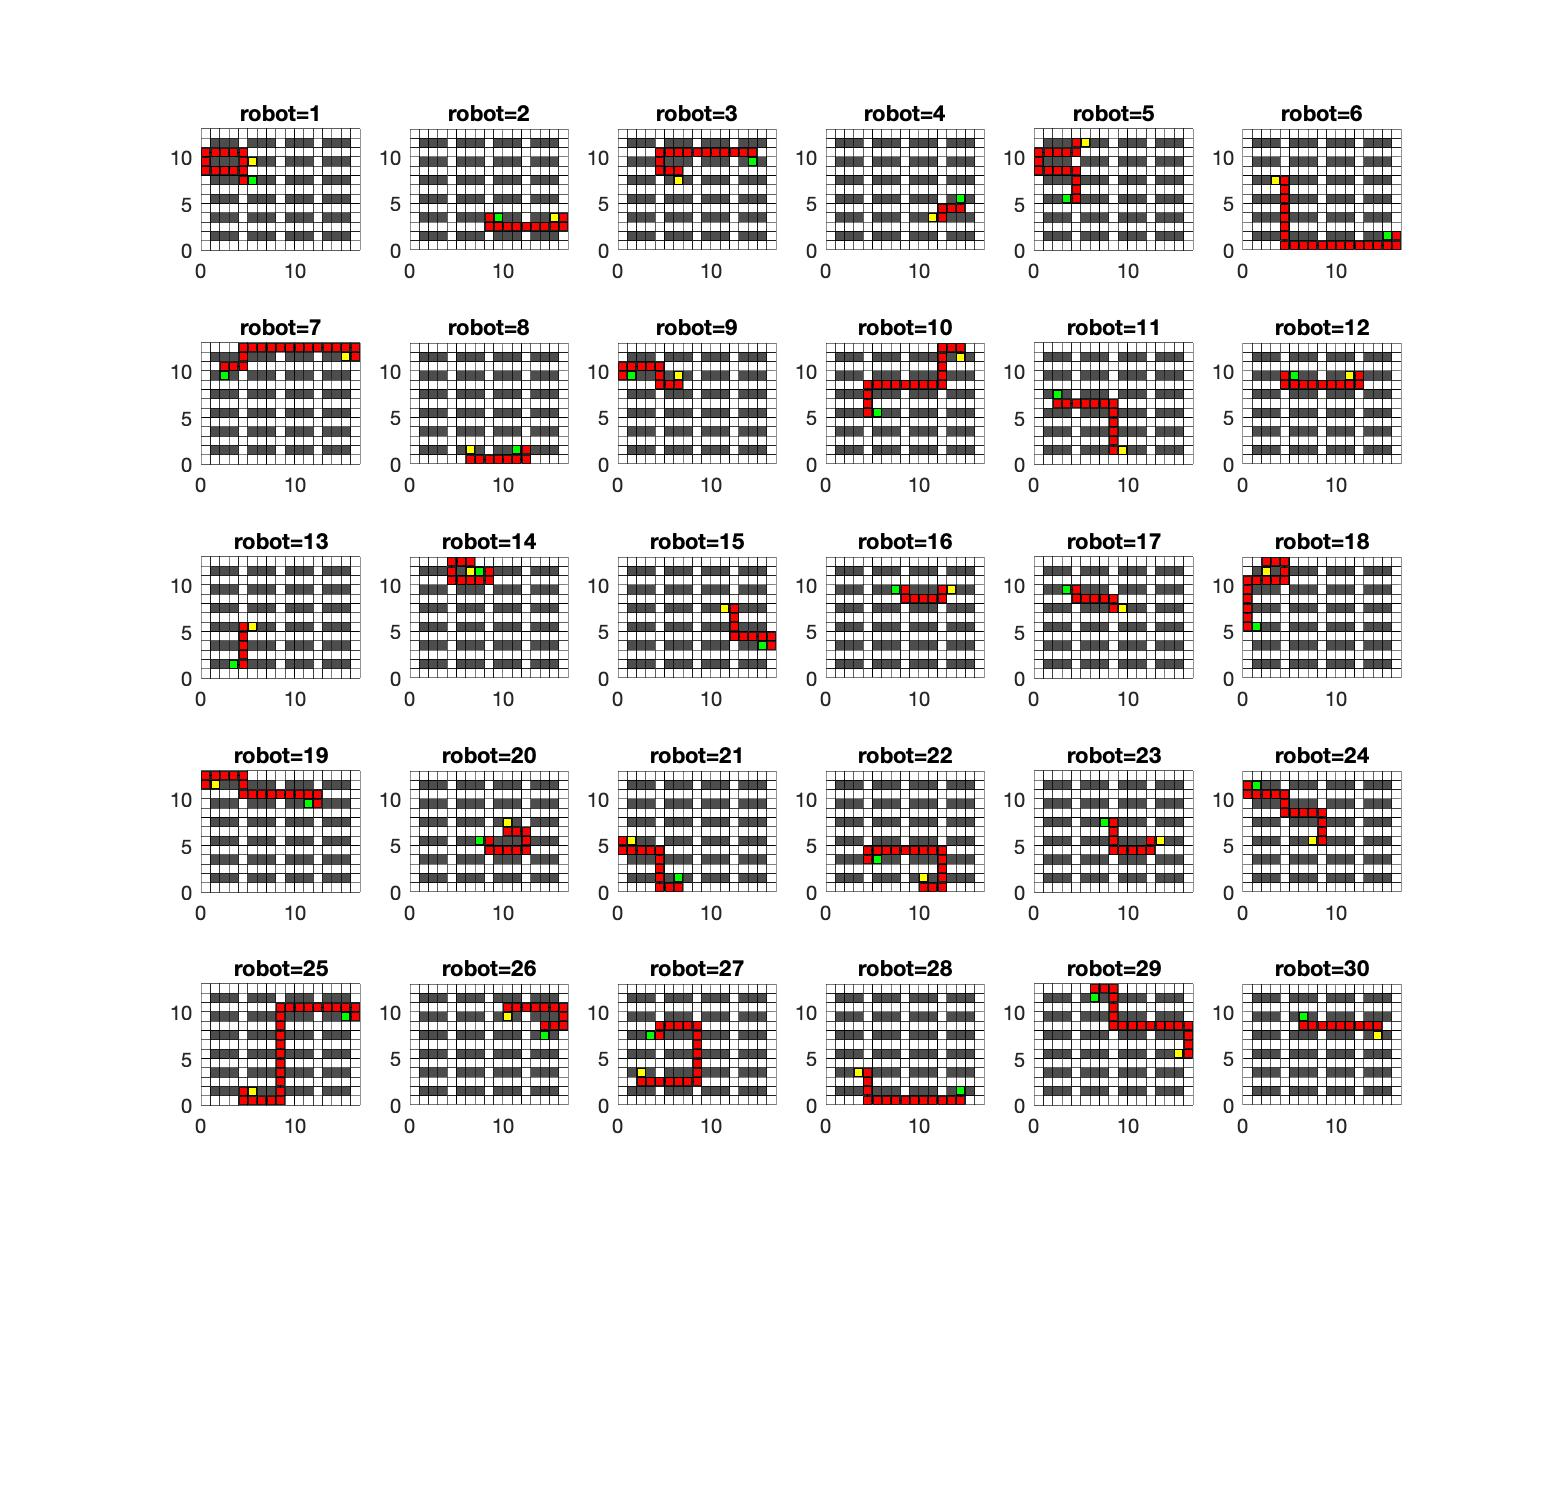
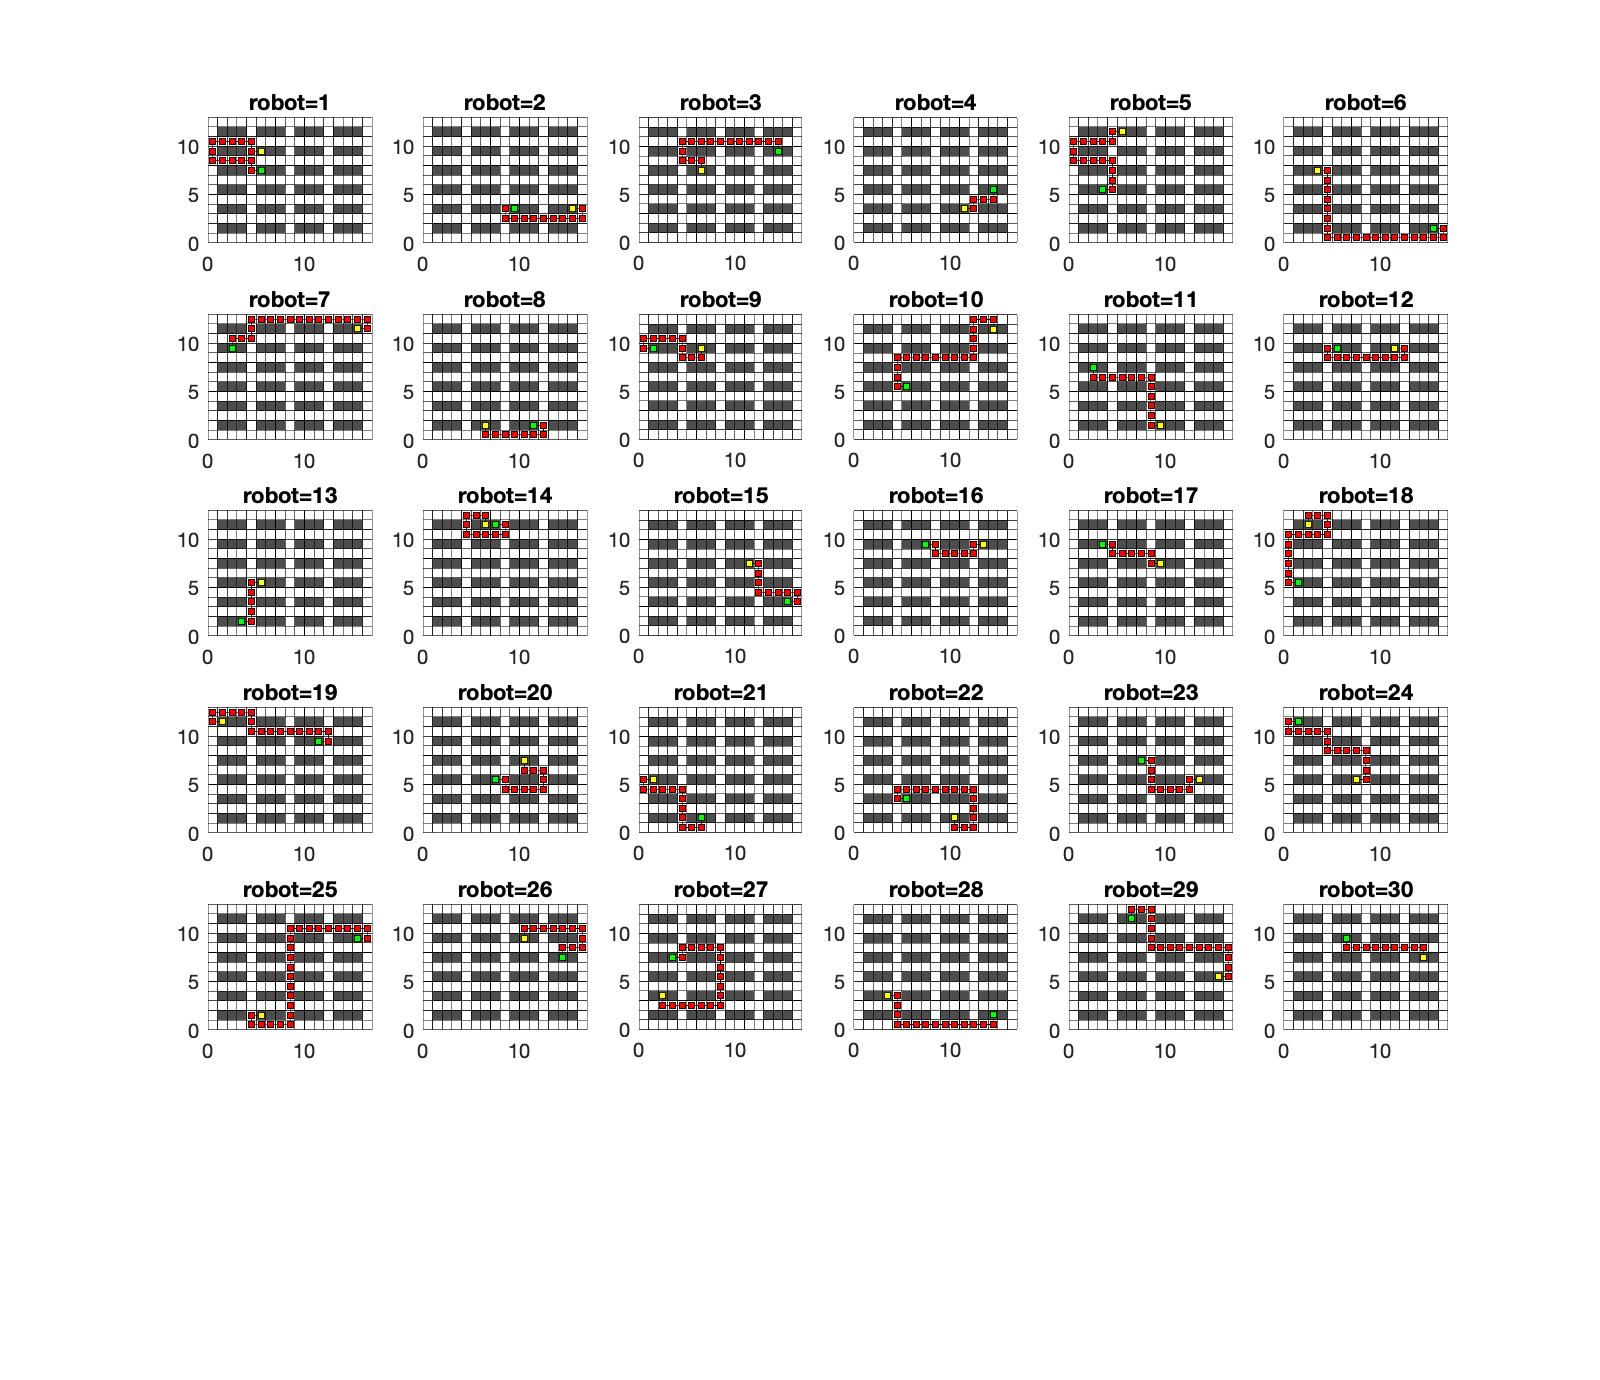
res 30

Changed region(s): [[0.124, 0.0623, 0.9302, 0.779]]

diff --git a/test_heuristic/plot_ind.m b/test_heuristic/plot_ind.m
@@ -14,10 +14,10 @@ for i = 1:RobotNum
         PathStore_new{i}=cat(1,[start_ori_x,start_ori_y],PathStore_new{i});
         PathStore_new{i}=cat(1,PathStore_new{i},[Goal_ori_x,Goal_ori_y]);
         
-        plot((PathStore_new{i}(:,2)-1/2),(PathStore_new{i}(:,1)-1/2),'-ks','MarkerFaceColor','r','MarkerSize',5) ;
+        plot((PathStore_new{i}(:,2)-1/2),(PathStore_new{i}(:,1)-1/2),'-ks','MarkerFaceColor','r','MarkerSize',4) ;
         
-        plot((Goal_ori_y-1/2),(Goal_ori_x-1/2),'-ks','MarkerFaceColor','g','MarkerSize',5)
-        plot((start_ori_y-1/2),(start_ori_x-1/2),'-ks','MarkerFaceColor','y','MarkerSize',5)        
+        plot((Goal_ori_y-1/2),(Goal_ori_x-1/2),'-ks','MarkerFaceColor','g','MarkerSize',4)
+        plot((start_ori_y-1/2),(start_ori_x-1/2),'-ks','MarkerFaceColor','y','MarkerSize',4)        
        
         str=['robot=',num2str(i)];
         title(str);

diff --git a/test_heuristic/main_one_way_global.m b/test_heuristic/main_one_way_global.m
@@ -61,5 +61,4 @@ plot_ind(D,RobotNum,n,m,Start_ori,Goal_ori,PathStore_new,dir_way)
 
 % plotdynamic_tes(D,PathStore_new,Path_num_new,RobotNum,Start_ori,Goal_ori,r_start_ori,r_Goal_ori,dir_way);
 
-save('PathStore.mat')
 save('Path_num.mat')
